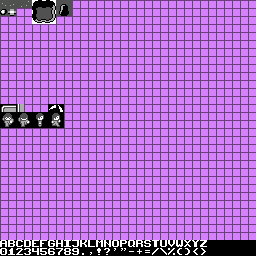
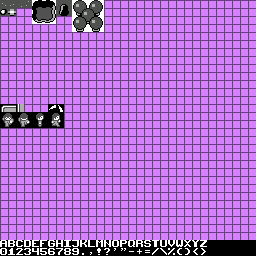
03 tree render 30:00

Changed region(s): [[0.2812, 0.0, 0.4062, 0.125]]

diff --git a/src/com/w1ll1x/ld22/level/tile/TreeTile.java b/src/com/w1ll1x/ld22/level/tile/TreeTile.java
@@ -1,0 +1,39 @@
+package com.w1ll1x.ld22.level.tile;
+
+import com.w1ll1x.ld22.entity.Entity;
+import com.w1ll1x.ld22.entity.Mob;
+import com.w1ll1x.ld22.entity.particle.TextParticle;
+import com.w1ll1x.ld22.gfx.Color;
+import com.w1ll1x.ld22.gfx.Screen;
+import com.w1ll1x.ld22.level.Level;
+
+public class TreeTile extends Tile {
+
+	public TreeTile(int id) {
+		super(id);
+	}
+
+	public void render(Screen screen, Level level, int x, int y) {
+		int col = Color.get(10, 50, 252, level.grassColor);
+		int barkCol1 = Color.get(10, 50, 430, level.grassColor);
+		int barkCol2 = Color.get(10, 50, 320, level.grassColor);
+		screen.render(x * 16 + 0, y * 16 + 0, 9 + 0 * 32, col, 0);
+		screen.render(x * 16 + 8, y * 16 + 0, 10 + 0 * 32, col, 0);
+		screen.render(x * 16 + 0, y * 16 + 8, 9 + 3 * 32, barkCol1, 0);
+		screen.render(x * 16 + 8, y * 16 + 8, 10 + 3 * 32, barkCol2, 0);
+	}
+
+	public boolean mayPass(Level level, int x, int y, Entity e) {
+		return false;
+	}
+
+	public void hurt(Level level, int x, int y, Mob source, int dmg, int attackDir) {
+		int damage = level.getData(x, y) + dmg;
+		level.add(new TextParticle("" + dmg, x * 16 + 8, y * 16 + 8, Color.get(-1, 500, 500, 500)));
+		if (damage > 32) {
+			level.setTile(x, y, Tile.grass, 0);
+		} else {
+			level.setData(x, y, damage);
+		}
+	}
+}

diff --git a/src/com/w1ll1x/ld22/entity/particle/TextParticle.java b/src/com/w1ll1x/ld22/entity/particle/TextParticle.java
@@ -19,10 +19,10 @@ public class TextParticle extends Entity {
 		this.col = col;
 		xx = x;
 		yy = y;
-		zz = 8;
+		zz = 2;
 		xa = random.nextGaussian() * 0.3;
-		ya = random.nextGaussian() * 0.15;
-		za = random.nextFloat() * 0.7 + 1;
+		ya = random.nextGaussian() * 0.2;
+		za = random.nextFloat() * 0.7 + 2;
 	}
 
 	public void tick() {
@@ -45,7 +45,7 @@ public class TextParticle extends Entity {
 	}
 	
 	public void render(Screen screen) {
-		Font.draw(msg, screen, x - msg.length() * 4, y, Color.get(-1, 0, 0, 0));
+//		Font.draw(msg, screen, x - msg.length() * 4, y, Color.get(-1, 0, 0, 0));
 		Font.draw(msg, screen, x - msg.length() * 4 + 1, y - (int)(zz) + 1, Color.get(-1, 0, 0, 0));
 		Font.draw(msg, screen, x - msg.length() * 4, y - (int)(zz), col);
 	}

diff --git a/src/com/w1ll1x/ld22/level/levelgen/NoiseMap.java b/src/com/w1ll1x/ld22/level/levelgen/NoiseMap.java
@@ -103,6 +103,21 @@ public class NoiseMap {
 				}
 			}
 		}
+		
+		for (int i = 0; i < w * h / 400; i++) {
+			int x = random.nextInt(w);
+			int y = random.nextInt(h);
+			for (int j = 0; j < 200; j++) {
+				int xx = x + random.nextInt(15) - random.nextInt(15);
+				int yy = y + random.nextInt(15) - random.nextInt(15);
+				if (xx >= 0 && yy >= 0 && xx < w && yy < h) {
+					if (map[xx + yy * w] == Tile.grass.id) {
+						map[xx + yy * w] = Tile.tree.id;
+					}
+				}
+			}
+		}
+		
 		for (int i = 0; i < w * h / 400; i++) {
 			int x = random.nextInt(w);
 			int y = random.nextInt(h);

diff --git a/src/com/w1ll1x/ld22/Game.java b/src/com/w1ll1x/ld22/Game.java
@@ -60,7 +60,7 @@ public class Game extends Canvas implements Runnable {
 		player.findStartPos(level);
 
 		level.add(player);
-		for (int i = 0; i < 1000; i++) {
+		for (int i = 0; i < 10; i++) {
 			Mob mob = new TestMob();
 			mob.findStartPos(level);
 			level.add(mob);

diff --git a/src/com/w1ll1x/ld22/level/tile/Tile.java b/src/com/w1ll1x/ld22/level/tile/Tile.java
@@ -11,6 +11,7 @@ public class Tile {
 	public static Tile rock = new RockTile(1);
 	public static Tile water = new WaterTile(2);
 	public static Tile flower = new FlowerTile(3);
+	public static Tile tree = new TreeTile(3);
 
 	public final byte id;
 
